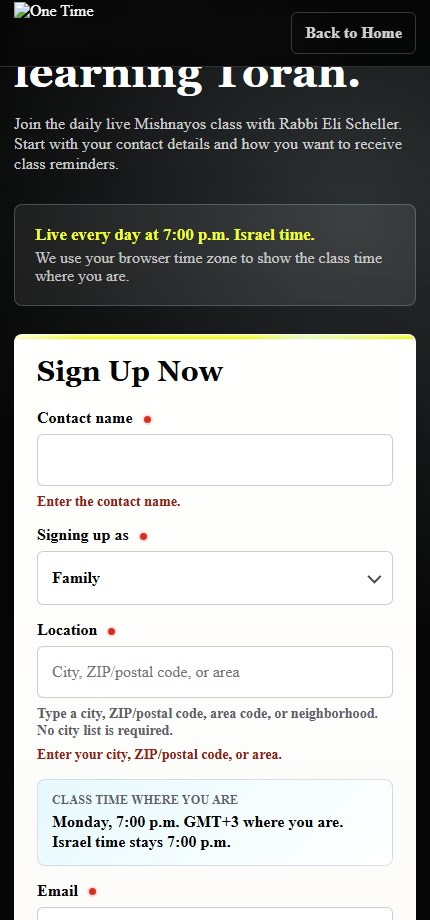
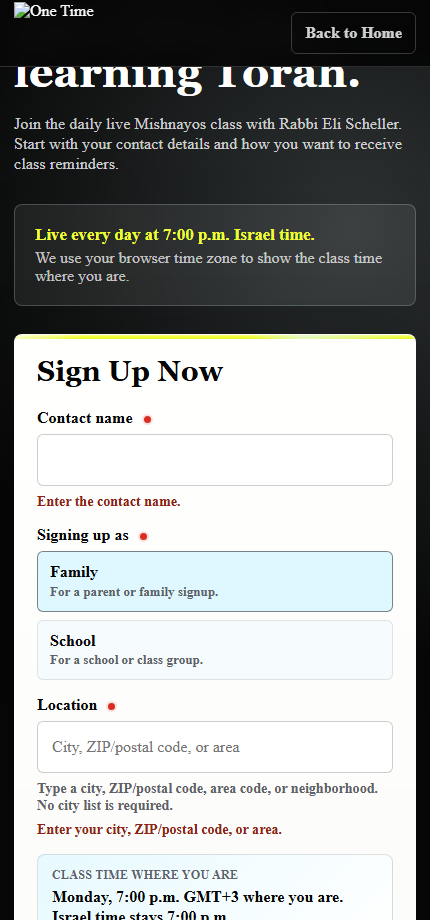
Use visible One Time signup type buttons

Changed region(s): [[0.0605, 0.5783, 0.9372, 1.0]]

diff --git a/public/one-time/signup.html b/public/one-time/signup.html
@@ -348,7 +348,6 @@
     }
 
     input:focus,
-    .signup-type-trigger:focus-visible,
     .signup-type-option:focus-visible,
     .radio-card:focus-within {
       outline: 3px solid rgba(142, 229, 255, 0.9);
@@ -357,69 +356,14 @@
     }
 
     .signup-type-picker {
-      position: relative;
+      display: grid;
+      grid-template-columns: repeat(2, minmax(0, 1fr));
+      gap: 8px;
     }
 
-    .signup-type-trigger {
-      width: 100%;
-      min-height: 54px;
-      display: flex;
-      align-items: center;
-      justify-content: space-between;
-      gap: 12px;
-      padding: 0 14px;
-      border: 1px solid rgba(5, 5, 5, 0.2);
-      border-radius: 6px;
-      color: var(--black);
-      background: var(--white);
-      cursor: pointer;
-      text-align: left;
-      font-weight: 840;
-    }
-
-    .signup-type-trigger[aria-invalid="true"] {
+    .signup-type-picker[aria-invalid="true"] .signup-type-option {
       border-color: rgba(143, 33, 21, 0.82);
       box-shadow: 0 0 0 3px rgba(143, 33, 21, 0.12);
-    }
-
-    .signup-type-current {
-      min-width: 0;
-      overflow: hidden;
-      text-overflow: ellipsis;
-      white-space: nowrap;
-    }
-
-    .signup-type-caret {
-      width: 10px;
-      height: 10px;
-      flex: 0 0 auto;
-      border-right: 2px solid rgba(5, 5, 5, 0.72);
-      border-bottom: 2px solid rgba(5, 5, 5, 0.72);
-      transform: rotate(45deg) translateY(-2px);
-      transition: transform 160ms ease;
-    }
-
-    .signup-type-trigger[aria-expanded="true"] .signup-type-caret {
-      transform: rotate(225deg) translateY(-1px);
-    }
-
-    .signup-type-menu {
-      position: absolute;
-      left: 0;
-      right: 0;
-      top: calc(100% + 8px);
-      z-index: 4;
-      display: grid;
-      gap: 8px;
-      padding: 8px;
-      border: 1px solid rgba(5, 5, 5, 0.16);
-      border-radius: 8px;
-      background: #ffffff;
-      box-shadow: 0 18px 40px rgba(0, 0, 0, 0.18);
-    }
-
-    .signup-type-menu[hidden] {
-      display: none;
     }
 
     .signup-type-option {
@@ -449,7 +393,7 @@
     }
 
     .signup-type-option:hover,
-    .signup-type-option[aria-selected="true"] {
+    .signup-type-option[aria-pressed="true"] {
       border-color: rgba(5, 5, 5, 0.48);
       background: var(--ice);
     }
@@ -827,6 +771,7 @@
         font-size: 1.76rem;
       }
 
+      .signup-type-picker,
       .radio-grid {
         grid-template-columns: 1fr;
       }
@@ -890,21 +835,15 @@
           <div class="field" data-signup-type-field>
             <label id="signupAsLabel">Signing up as <span class="required-dot" aria-hidden="true"></span><span class="sr-only">required</span></label>
             <input id="signupAs" name="signup_as" type="hidden" data-signup-type-value required>
-            <div class="signup-type-picker">
-              <button class="signup-type-trigger" type="button" aria-haspopup="listbox" aria-expanded="false" aria-labelledby="signupAsLabel signupAsSelected" aria-describedby="signupAsError" data-signup-type-trigger>
-                <span class="signup-type-current" id="signupAsSelected" data-signup-type-label>Choose Family or School</span>
-                <span class="signup-type-caret" aria-hidden="true"></span>
+            <div class="signup-type-picker" role="group" aria-labelledby="signupAsLabel" aria-describedby="signupAsError" data-signup-type-picker>
+              <button type="button" class="signup-type-option" data-signup-type-option data-value="Family" data-action-id="ACTION-ONETIME-SIGNUP-AS-FAMILY" aria-pressed="false">
+                <span>Family</span>
+                <small>For a parent or family signup.</small>
               </button>
-              <div class="signup-type-menu" id="signupAsOptions" role="listbox" aria-labelledby="signupAsLabel" data-signup-type-menu hidden>
-                <button type="button" class="signup-type-option" role="option" data-signup-type-option data-value="Family" data-action-id="ACTION-ONETIME-SIGNUP-AS-FAMILY" aria-selected="false">
-                  <span>Family</span>
-                  <small>For a parent or family signup.</small>
-                </button>
-                <button type="button" class="signup-type-option" role="option" data-signup-type-option data-value="School" data-action-id="ACTION-ONETIME-SIGNUP-AS-SCHOOL" aria-selected="false">
-                  <span>School</span>
-                  <small>For a school or class group.</small>
-                </button>
-              </div>
+              <button type="button" class="signup-type-option" data-signup-type-option data-value="School" data-action-id="ACTION-ONETIME-SIGNUP-AS-SCHOOL" aria-pressed="false">
+                <span>School</span>
+                <small>For a school or class group.</small>
+              </button>
             </div>
             <span class="field-error" id="signupAsError" data-error-for="signup_as">Choose Family or School.</span>
           </div>
@@ -1036,9 +975,7 @@
       const timezoneFallbackInput = form?.elements.timezone_fallback;
       const localClassTime = document.querySelector('[data-local-class-time]');
       const signupTypeInput = form?.elements.signup_as;
-      const signupTypeTrigger = document.querySelector('[data-signup-type-trigger]');
-      const signupTypeLabel = document.querySelector('[data-signup-type-label]');
-      const signupTypeMenu = document.querySelector('[data-signup-type-menu]');
+      const signupTypePicker = document.querySelector('[data-signup-type-picker]');
       const signupTypeOptions = Array.from(document.querySelectorAll('[data-signup-type-option]'));
       const signupTypeValues = new Set(['Family', 'School']);
 
@@ -1055,25 +992,15 @@
         return signupTypeValues.has(value) ? value : '';
       }
 
-      function setSignupTypeMenuOpen(open, options = {}) {
-        if (!signupTypeMenu || !signupTypeTrigger) return;
-        signupTypeMenu.hidden = !open;
-        signupTypeTrigger.setAttribute('aria-expanded', String(open));
-        if (open && options.focusOption) {
-          const selected = signupTypeOptions.find((option) => option.getAttribute('aria-selected') === 'true');
-          (selected || signupTypeOptions[0])?.focus({ preventScroll: true });
-        }
-      }
-
       function setSignupType(value) {
         const normalized = signupTypeValues.has(value) ? value : '';
         if (signupTypeInput) signupTypeInput.value = normalized;
-        if (signupTypeLabel) signupTypeLabel.textContent = normalized || 'Choose Family or School';
         signupTypeOptions.forEach((option) => {
-          option.setAttribute('aria-selected', String(option.dataset.value === normalized));
+          const active = option.dataset.value === normalized;
+          option.setAttribute('aria-pressed', String(active));
         });
         if (normalized) {
-          signupTypeTrigger?.removeAttribute('aria-invalid');
+          signupTypePicker?.removeAttribute('aria-invalid');
           form?.querySelector('[data-error-for="signup_as"]')?.classList.remove('visible');
         }
       }
@@ -1246,7 +1173,7 @@
         if (name === 'reminder_preference') {
           form?.querySelector('[data-reminder-fieldset]')?.setAttribute('aria-invalid', 'true');
         } else if (name === 'signup_as') {
-          signupTypeTrigger?.setAttribute('aria-invalid', 'true');
+          signupTypePicker?.setAttribute('aria-invalid', 'true');
         } else {
           input?.setAttribute('aria-invalid', 'true');
         }
@@ -1337,44 +1264,16 @@
         updateLocalClassTime();
       }
 
-      signupTypeTrigger?.addEventListener('click', () => {
-        setSignupTypeMenuOpen(signupTypeTrigger.getAttribute('aria-expanded') !== 'true');
-      });
-
-      signupTypeTrigger?.addEventListener('keydown', (event) => {
-        if (event.key === 'ArrowDown' || event.key === 'Enter' || event.key === ' ') {
-          event.preventDefault();
-          setSignupTypeMenuOpen(true, { focusOption: true });
-        }
-        if (event.key === 'Escape') {
-          setSignupTypeMenuOpen(false);
-        }
-      });
-
       signupTypeOptions.forEach((option) => {
         option.addEventListener('click', () => {
           setSignupType(option.dataset.value || '');
-          setSignupTypeMenuOpen(false);
-          signupTypeTrigger?.focus({ preventScroll: true });
         });
         option.addEventListener('keydown', (event) => {
           if (event.key === 'Enter' || event.key === ' ') {
             event.preventDefault();
             setSignupType(option.dataset.value || '');
-            setSignupTypeMenuOpen(false);
-            signupTypeTrigger?.focus({ preventScroll: true });
-          }
-          if (event.key === 'Escape') {
-            setSignupTypeMenuOpen(false);
-            signupTypeTrigger?.focus({ preventScroll: true });
           }
         });
-      });
-
-      document.addEventListener('click', (event) => {
-        if (!signupTypeMenu || signupTypeMenu.hidden) return;
-        if (event.target instanceof Node && document.querySelector('[data-signup-type-field]')?.contains(event.target)) return;
-        setSignupTypeMenuOpen(false);
       });
 
       form?.elements.city_label?.addEventListener('input', () => {

diff --git a/tests/one-time-direct-signup-page.test.js b/tests/one-time-direct-signup-page.test.js
@@ -61,7 +61,7 @@ test('One Time direct signup route, registries, and landing CTAs are canonical',
   assert.match(signupHtml, /data-one-time-direct-signup-form/);
   assert.match(signupHtml, /name="contact_name"/);
   assert.match(signupHtml, /name="signup_as"/);
-  assert.match(signupHtml, /data-signup-type-trigger/);
+  assert.match(signupHtml, /data-signup-type-picker/);
   assert.match(signupHtml, /data-signup-type-option/);
   assert.match(signupHtml, /data-value="Family"/);
   assert.match(signupHtml, /data-value="School"/);
@@ -157,15 +157,17 @@ test('One Time direct signup validates WhatsApp phone and submits first-party pa
         timezone: document.querySelector('input[name="timezone"]')?.value || '',
         localClassTime: document.querySelector('[data-local-class-time]')?.textContent || '',
         signupTypeNativeSelect: Boolean(document.querySelector('select[name="signup_as"]')),
-        signupTypeTriggerVisible: Boolean(document.querySelector('[data-signup-type-trigger]')?.offsetParent),
+        signupTypePickerVisible: Boolean(document.querySelector('[data-signup-type-picker]')?.offsetParent),
         signupTypeInitialValue: document.querySelector('input[name="signup_as"]')?.value || '',
         signupTypeOptionCount: document.querySelectorAll('[data-signup-type-option]').length,
+        signupTypeVisibleOptionCount: [...document.querySelectorAll('[data-signup-type-option]')].filter((option) => Boolean(option.offsetParent)).length,
       }));
       assert.equal(metrics.formVisible, true, `form visible at ${width}`);
       assert.equal(metrics.signupTypeNativeSelect, false, `no native signup type select at ${width}`);
-      assert.equal(metrics.signupTypeTriggerVisible, true, `custom signup type trigger visible at ${width}`);
+      assert.equal(metrics.signupTypePickerVisible, true, `signup type buttons visible at ${width}`);
       assert.equal(metrics.signupTypeInitialValue, '', `signup type starts empty at ${width}`);
       assert.equal(metrics.signupTypeOptionCount, 2, `Family/School options rendered at ${width}`);
+      assert.equal(metrics.signupTypeVisibleOptionCount, 2, `Family/School options visible without dropdown at ${width}`);
       assert.equal(metrics.checkedReminderCount, 0, `no preselected reminder at ${width}`);
       assert.ok(metrics.requiredDotCount >= 5, `required dots visible at ${width}`);
       assert.equal(metrics.phoneDotVisible, false, `phone dot hidden before WhatsApp selection at ${width}`);
@@ -186,11 +188,9 @@ test('One Time direct signup validates WhatsApp phone and submits first-party pa
     await page.setViewportSize({ width: 430, height: 920 });
     await page.goto(`${baseUrl}/one-time/signup`, { waitUntil: 'domcontentloaded' });
     await page.fill('input[name="contact_name"]', 'Leah Cohen');
-    await page.click('[data-signup-type-trigger]');
     await page.click('[data-signup-type-option][data-value="Family"]');
     assert.equal(await page.locator('input[name="signup_as"]').inputValue(), 'Family');
-    assert.equal(await page.locator('[data-signup-type-label]').textContent(), 'Family');
-    assert.equal(await page.locator('[data-signup-type-option][data-value="Family"]').getAttribute('aria-selected'), 'true');
+    assert.equal(await page.locator('[data-signup-type-option][data-value="Family"]').getAttribute('aria-pressed'), 'true');
     await page.fill('input[name="city_label"]', '11230');
     await page.dispatchEvent('input[name="city_label"]', 'input');
     await page.fill('input[name="email"]', 'leah@example.invalid');

diff --git a/tests/one-time-signup-reminder-workflow.test.js b/tests/one-time-signup-reminder-workflow.test.js
@@ -34,7 +34,7 @@ test('direct signup page is the canonical public form', () => {
   assert.match(signup, /href="\/one-time"[^>]*>Back to Home<\/a>/);
   assert.match(signup, /name="contact_name"/);
   assert.match(signup, /name="signup_as"/);
-  assert.match(signup, /data-signup-type-trigger/);
+  assert.match(signup, /data-signup-type-picker/);
   assert.match(signup, /data-signup-type-option/);
   assert.match(signup, /data-value="Family"/);
   assert.match(signup, /data-value="School"/);
@@ -43,6 +43,7 @@ test('direct signup page is the canonical public form', () => {
   assert.doesNotMatch(signup, /<select\b[^>]*name="signup_as"/i);
   assert.doesNotMatch(signup, /<option value="Family">Family<\/option>/);
   assert.doesNotMatch(signup, /<option value="School">School<\/option>/);
+  assert.doesNotMatch(signup, /data-signup-type-trigger|data-signup-type-menu/);
   assert.match(signup, /name="city_label"/);
   assert.match(signup, /name="city_id"/);
   assert.match(signup, /name="city_region"/);

diff --git a/ops/action-registry/universal-action-parity.md b/ops/action-registry/universal-action-parity.md
@@ -1,6 +1,6 @@
 # Universal Action Parity
 
-Generated at 2026-07-12T14:48:47.904Z.
+Generated at 2026-07-12T16:51:58.390Z.
 
 Requirement: REQ-20260623-013
 
@@ -13,12 +13,12 @@ Requirement: REQ-20260623-013
 - zero_missing_tests: pass (0)
 - zero_risky_actions_without_approval: pass (0)
 - telegram_request_parity_present: pass (80)
-- website_assistant_request_parity_present: pass (212)
+- website_assistant_request_parity_present: pass (214)
 - agent_work_handoff_parity_present: pass (100)
 
 ## Summary
 
-- Root registry actions: 132
+- Root registry actions: 134
 - Detailed typed actions: 80
 - Visible UI hooks: 53
 - Visible UI hooks classified: 53
@@ -33,7 +33,7 @@ Requirement: REQ-20260623-013
 | --- | ---: |
 | ui_button | 53 |
 | telegram_request | 80 |
-| website_assistant_request | 212 |
+| website_assistant_request | 214 |
 | operations_helper_request | 182 |
 | automation_action | 88 |
 | agent_work_handoff | 100 |
@@ -77,7 +77,7 @@ Requirement: REQ-20260623-013
 | ticket | covered_by_canonical_registry | ACTION-ONETIME-MEMBER-SUPPORT-TICKET<br>create_report_problem_ticket<br>create_ticket<br>route_bug_to_codex |
 | support | covered_by_canonical_registry | ACTION-ONETIME-MEMBER-SUPPORT-TICKET<br>create_help_request<br>create_report_problem_ticket<br>create_ticket<br>request_provider_contact<br>route_bug_to_codex |
 | file_intake | covered_by_canonical_registry | ACTION-HELPER-CAPTURE-RAW-INTAKE<br>ACTION-ONETIME-DRIVE-BRIEF-PREVIEW<br>google_drive_create_doc_preview<br>google_drive_create_folder_preview<br>google_drive_find_file_preview<br>google_drive_move_file_preview |
-| integration | covered_by_canonical_registry | ACTION-INTEGRATION-SETUP-OPEN<br>ACTION-INTEGRATION-SETUP-VALIDATE<br>ACTION-ONETIME-LIVE-ZOOM-LINK-DRY-RUN<br>ACTION-ONETIME-LIVE-ZOOM-LINK-SEND<br>ACTION-ONETIME-PUBLIC-HELPER-OPEN<br>ACTION-ONETIME-PUBLIC-WHATSAPP |
+| integration | covered_by_canonical_registry | ACTION-INTEGRATION-SETUP-OPEN<br>ACTION-INTEGRATION-SETUP-VALIDATE<br>ACTION-ONETIME-LIVE-ZOOM-LINK-DRY-RUN<br>ACTION-ONETIME-LIVE-ZOOM-LINK-SEND<br>ACTION-ONETIME-PUBLIC-WHATSAPP<br>ACTION-PARENT-ACCESS-LINK-WHATSAPP |
 | billing | covered_by_canonical_registry | ACTION-ONETIME-PAYMENT-ACCESS-GRANT-DISABLED<br>ACTION-ONETIME-PAYMENT-ACCESS-REVIEW-CHECKOUTS<br>ACTION-ONETIME-PAYMENT-ACCESS-REVIEW-CLASS-LINKS |
 | agent_work | covered_by_canonical_registry | ACTION-AGENT-RESULT-RECORD<br>ACTION-AGENT-REVIEW-COPY-PROMPT<br>ACTION-AGENT-REVIEW-COPY-SESSION<br>ACTION-AGENT-REVIEW-EXIT<br>ACTION-AGENT-REVIEW-MARK-BLOCKED<br>ACTION-AGENT-REVIEW-OPEN-CONTEXT |
 | deployment_status | covered_by_canonical_registry | ACTION-ONETIME-AGENT-ACCEPTANCE-VIEW-STATUS<br>ACTION-ONETIME-MEMBER-LIBRARY-SMOKE<br>ACTION-ONETIME-SCOPED-AGENT-STATUS<br>ACTION-PROVIDER-SECTION-NAVIGATION |

diff --git a/ops/ui-audits/2026-07-12-onetime-signup-custom-family-school-picker/README.md b/ops/ui-audits/2026-07-12-onetime-signup-custom-family-school-picker/README.md
@@ -1,12 +1,12 @@
-# One Time Signup Custom Family/School Picker Proof
+# One Time Signup Family/School Button Proof
 
-Created: 2026-07-12T16:12:33.631Z
+Created: 2026-07-12T16:53:51.542Z
 Raw input: RAW-20260712-010
 Route: /one-time/signup
 
 ## Result
 
-- 1440px: Family selected, hidden value Family, validation cleared, screenshot ops/ui-audits/2026-07-12-onetime-signup-custom-family-school-picker/signup-type-family-1440.png
-- 768px: School selected, hidden value School, validation cleared, screenshot ops/ui-audits/2026-07-12-onetime-signup-custom-family-school-picker/signup-type-school-768.png
-- 430px: Family selected, hidden value Family, validation cleared, screenshot ops/ui-audits/2026-07-12-onetime-signup-custom-family-school-picker/signup-type-family-430.png
-- 390px: School selected, hidden value School, validation cleared, screenshot ops/ui-audits/2026-07-12-onetime-signup-custom-family-school-picker/signup-type-school-390.png
+- 1440px: Family selected, hidden value Family, validation cleared, no native/custom dropdown, screenshot ops/ui-audits/2026-07-12-onetime-signup-custom-family-school-picker/signup-type-family-1440.png
+- 768px: School selected, hidden value School, validation cleared, no native/custom dropdown, screenshot ops/ui-audits/2026-07-12-onetime-signup-custom-family-school-picker/signup-type-school-768.png
+- 430px: Family selected, hidden value Family, validation cleared, no native/custom dropdown, screenshot ops/ui-audits/2026-07-12-onetime-signup-custom-family-school-picker/signup-type-family-430.png
+- 390px: School selected, hidden value School, validation cleared, no native/custom dropdown, screenshot ops/ui-audits/2026-07-12-onetime-signup-custom-family-school-picker/signup-type-school-390.png

diff --git a/tasks-pending/2026-07-12-onetime-signup-location-hotfix.md b/tasks-pending/2026-07-12-onetime-signup-location-hotfix.md
@@ -13,6 +13,7 @@ Status: in_progress
 | REQ-20260712-402 | Remove city-picker ambiguity from the live signup form by making the required field visibly accept city, ZIP/postal code, or area. | done_local | `public/one-time/signup.html`; `node --test tests/one-time-direct-signup-page.test.js` pass |
 | REQ-20260712-403 | Preserve existing first-party signup payload, timezone detection/fallback, reminder consent, and WhatsApp phone validation. | done_local | `npm run test:onetime:focused` pass 73/73 |
 | REQ-20260712-404 | Commit, push, merge, deploy One Time production, verify live SHA, and smoke `/one-time/signup`. | in_progress | Pending deployment |
+| REQ-20260712-405 | Replace the custom Family/School dropdown with always-visible Family and School choice buttons so Family cannot appear unloaded or clipped on mobile. | done_local | `public/one-time/signup.html`; `node --test tests/one-time-direct-signup-page.test.js tests/one-time-signup-reminder-workflow.test.js` pass 13/13; `npm run test:onetime:focused` pass 73/73 |
 
 ## Local Verification
 
@@ -23,3 +24,5 @@ Status: in_progress
 - `node scripts\generate-universal-action-parity.mjs`: pass.
 - `npm run watchdog:actions`: pass.
 - `node --test tests/watchdog-action-registry.test.js`: pass 5/5.
+- Follow-up Family/School button fix: live browser investigation showed the custom dropdown did set `signup_as=Family`, but opened low on mobile and could feel clipped/unloaded. Replaced it with always-visible Family and School buttons.
+- Follow-up tests: `node --test tests/one-time-direct-signup-page.test.js tests/one-time-signup-reminder-workflow.test.js` pass 13/13; `npm run test:onetime:focused` pass 73/73; `npm run watchdog:actions` pass.

diff --git a/ops/agent-changelog.md b/ops/agent-changelog.md
@@ -38722,6 +38722,12 @@ Report: ops/agent-fleet-runs/2026-07-07T14-31-54-632Z-task-1518.md
   2/2, `node --test tests/one-time-focused-landing.test.js` 2/2,
   `npm run test:onetime:focused` 73/73, `npm run watchdog:actions`, and
   `node --test tests/watchdog-action-registry.test.js` 5/5.
+- Follow-up: replaced the custom Family/School dropdown with always-visible
+  Family and School choice buttons after live inspection showed the dropdown
+  could feel unloaded or clipped on mobile. Follow-up gates passed:
+  `node --test tests/one-time-direct-signup-page.test.js tests/one-time-signup-reminder-workflow.test.js`
+  13/13, `npm run test:onetime:focused` 73/73, and
+  `npm run watchdog:actions`.
 
 ## 2026-07-12 - One Time scoped class-reminder live dispatch completed
 

diff --git a/ops/action-registry/one-time-action-coverage.md b/ops/action-registry/one-time-action-coverage.md
@@ -1,6 +1,6 @@
 # One Time Action Coverage
 
-Generated at 2026-07-12T14:48:47.884Z.
+Generated at 2026-07-12T16:51:57.964Z.
 
 Scope: `rabbi_sheller_provider` / `one_time_mishnah_class`
 
@@ -11,7 +11,7 @@ Requirement: REQ-20260621-502
 - Status: covered
 - Product controls inventoried: 21
 - Registry hook controls inventoried: 19
-- Root registry actions: 132
+- Root registry actions: 134
 - Detailed registry actions: 80
 - Registry external/app-visible write controls: 7
 - Registry missing/repair rows: 0
